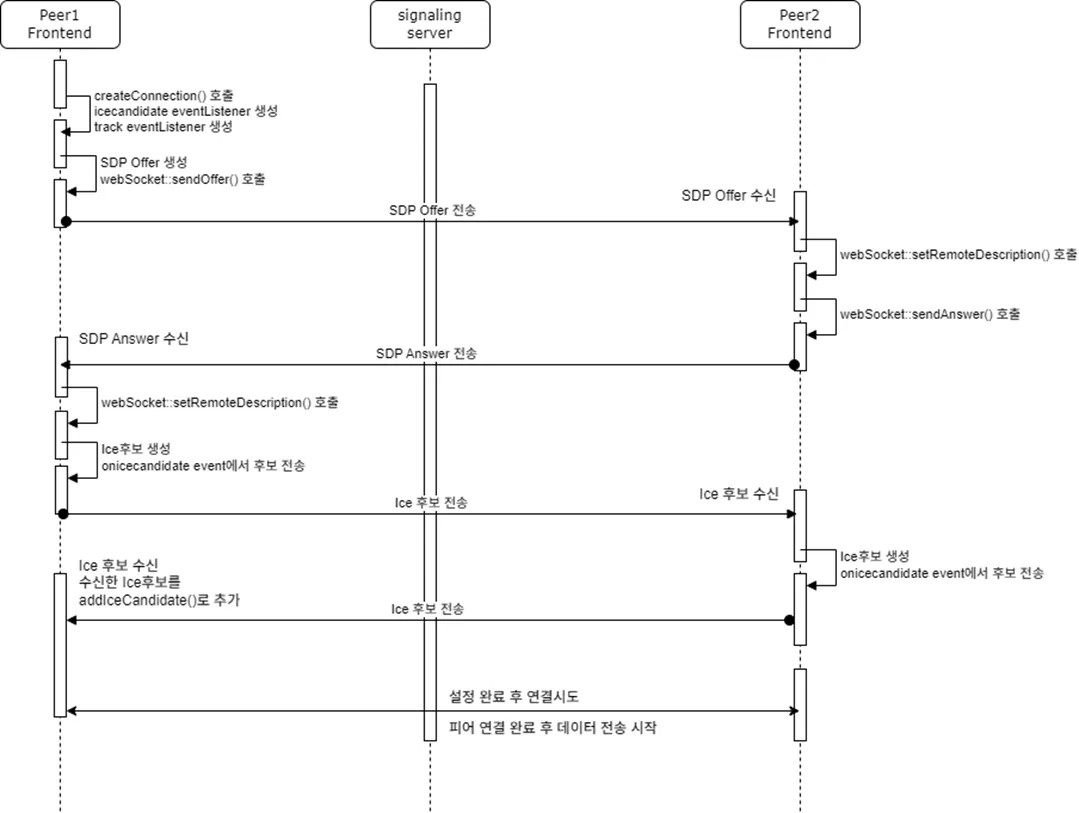
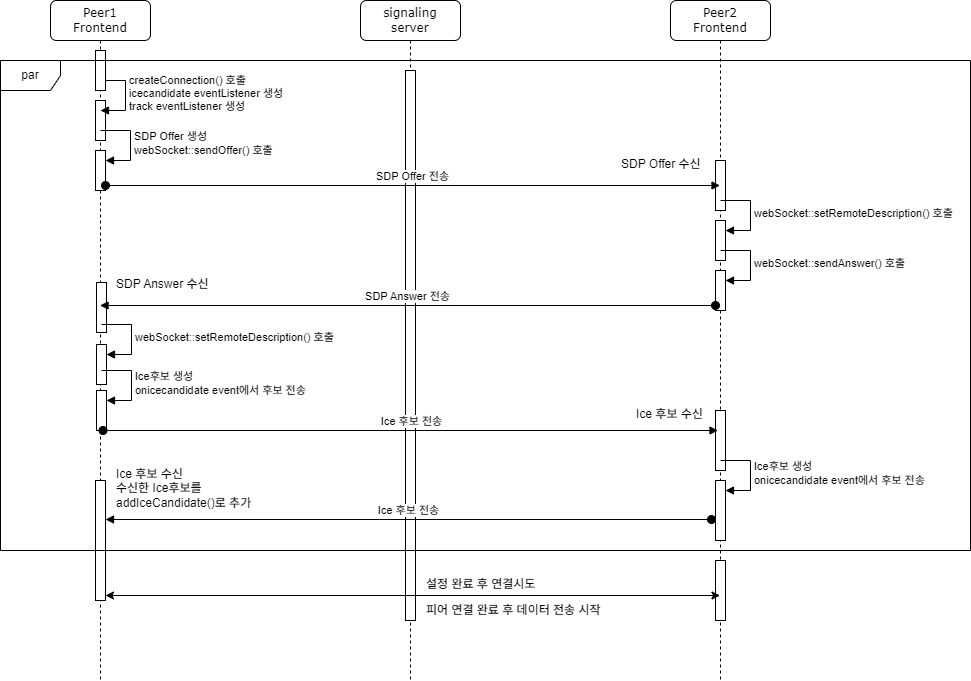
docs : update sequecnediagram, update sequencediagram img

diff --git a/CS/WebRTC/SequenceDiagram.md b/CS/WebRTC/SequenceDiagram.md
@@ -9,6 +9,8 @@
     - icecandidate : 네트워크 경로 후보
     - icecandidate는 WebRTC에서 피어 간의 연결을 설정하기 위해 사용되는 네트워크 경로 후보(ICE Candidate)가 생성될 때 발생하는 이벤트이다.
 
+- 시퀀스 다이어그램에서 offer/answer, ice event 순서로 되어있지만, 사실 순서는 상관이 없고 두 개가 모두 이루어지면 연결이 시작된다
+
 ```javascript
   // ...
   // ICE 후보 목록 (네트워크 연결을 위한 후보 주소)
@@ -148,7 +150,9 @@
         - `setLocalDescription` 설정
         - `createOffer` 로 이용해 단일 타겟(`memberNo`)에게 전송
         - `createOffer` 에서 STUN Server("stun:stun.l.google.com:19302")를 세팅해 Ice candidate 후보를 수집하고 이를 전송해 peer들과 네트워크 경로를 설정하고 연결한다
-            - STUN 서버를 통해 내 공인 IP와 포트가 확인되면, 해당 정보가 ICE 후보(ice candidate)로 생성되어 WebRTC에 전달
+          - STUN 서버를 통해 내 공인 IP와 포트가 확인되면, 해당 정보가 ICE 후보(ice candidate)로 생성되어 WebRTC에 전달
+  - `createConnection` 을 통한 icecandidate 이벤트, icecandidate에서 세팅된 offer(sdp 미디어 스트림 id 교환) 이 이루어지면 이후 과정인 연결이 시작된다(P2P)
+
 ```javascript
 // stun:stun.l.google.com:19302 반환값
 "iceCandidates": [
